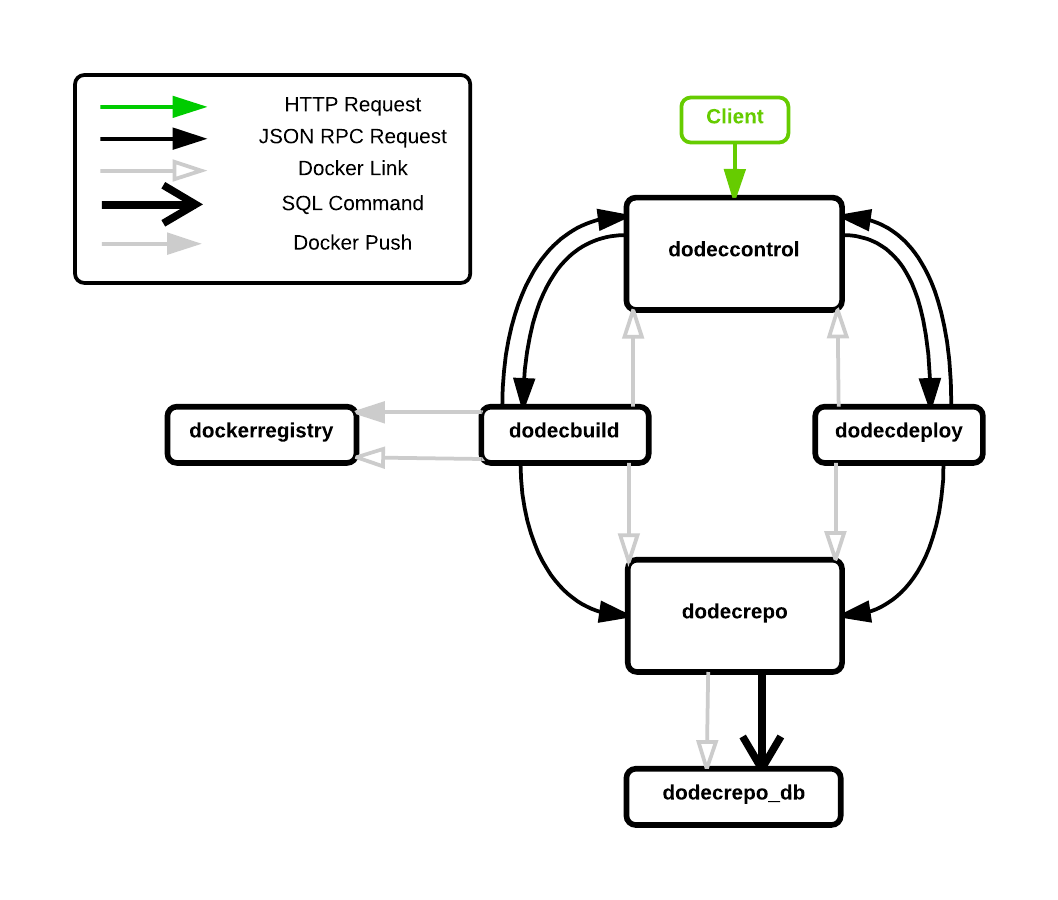
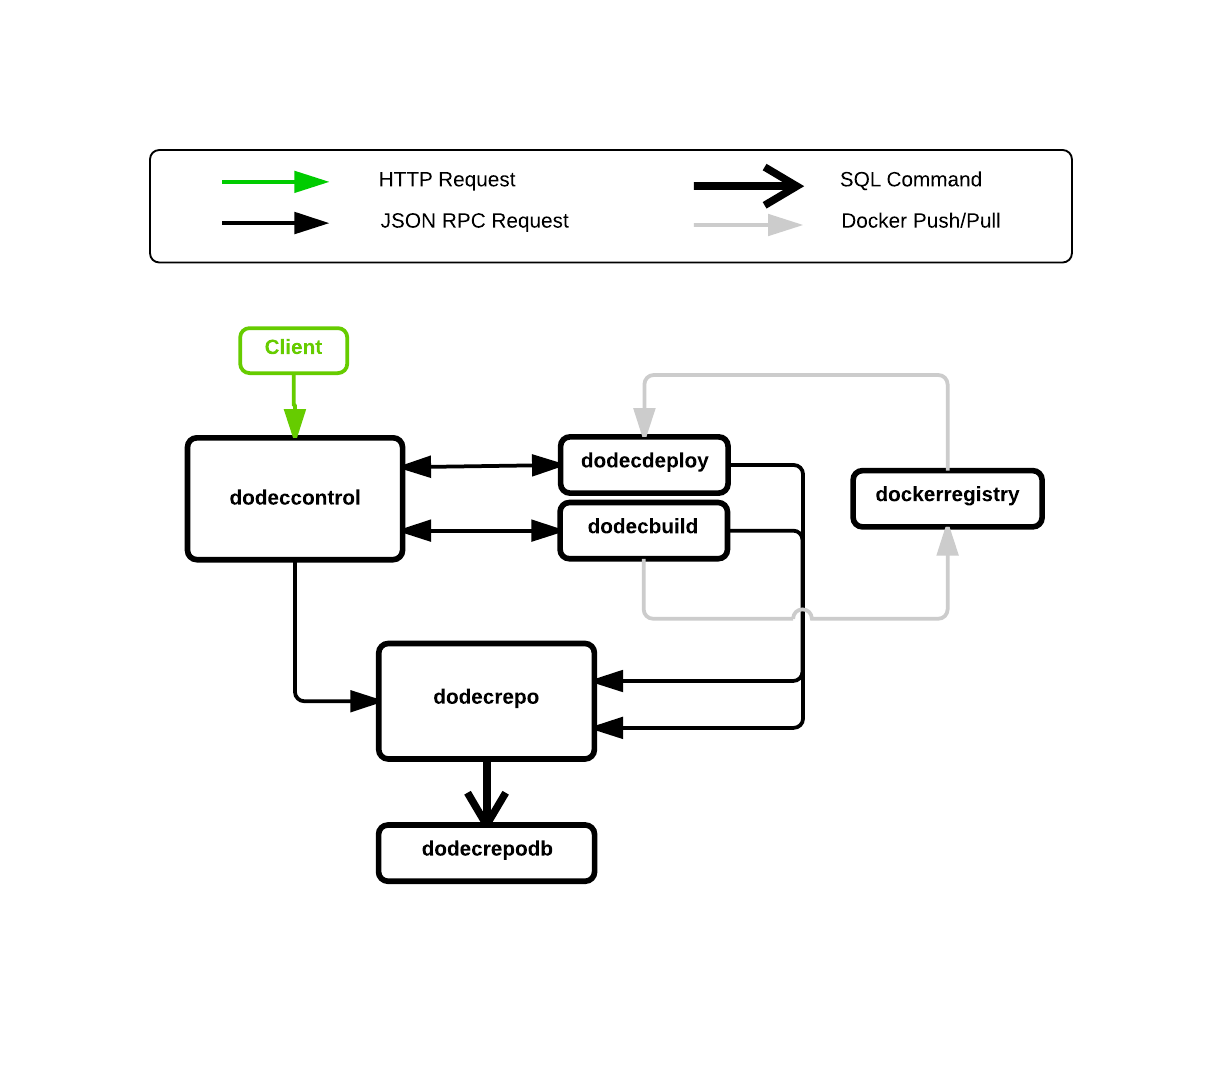
(WIP) use postgres

diff --git a/dodecrepo/main_test.go b/dodecrepo/main_test.go
@@ -1,9 +1,9 @@
 package main
 
 import (
-	"github.com/jtakamine/dodecahedronci/dodecregistry/api"
 	"github.com/jtakamine/dodecahedronci/testutil"
-	"log"
+	"net"
+	"net/rpc/jsonrpc"
 	"testing"
 	"time"
 )
@@ -17,7 +17,7 @@ func TestMain(t *testing.T) {
 	testutil.FigUp(t)
 	defer testutil.FigKillAndRm(t)
 
-	testPostAndGetBuild("myapp", "1.2.0.345", "app:\n  image: scratch", "", "http://localhost:8001", t)
+	testRPCSaveAndGetBuild("1234uuid567", "myapp", "1.0.0.0", "app:\n\timage: scratch", "localhost:8001", t)
 }
 
 func TestMainShort(t *testing.T) {
@@ -28,9 +28,44 @@ func TestMainShort(t *testing.T) {
 	go main()
 	time.Sleep(500 * time.Millisecond)
 
-	testPostAndGetBuild("myapp", "1.2.0.345", "app:\n  image: scratch", "asdf", "http://localhost:8001", t)
+	testRPCSaveAndGetBuild("1234uuid567", "myapp", "1.0.0.0", "app:\n\timage: scratch", "localhost:8001", t)
 }
 
+func testRPCSaveAndGetBuild(uuid string, app string, version string, artifact string, addr string, t *testing.T) {
+	conn, err := net.DialTimeout("tcp", addr, time.Second*5)
+	if err != nil {
+		t.Error(err)
+		return
+	}
+	c := jsonrpc.NewClient(conn)
+
+	var success bool
+	b_save := Build{
+		UUID:     uuid,
+		AppName:  app,
+		Version:  version,
+		Artifact: artifact,
+	}
+
+	err = c.Call("BuildRepo.Save", b_save, &success)
+	if err != nil {
+		t.Error(err)
+		return
+	}
+
+	var b_get Build
+	err = c.Call("BuildRepo.Get", uuid, &b_get)
+	if err != nil {
+		t.Error(err)
+		return
+	}
+
+	if b_get != b_save {
+		t.Errorf("Saved build did not equal retrieved build: %s <> %s\n", b_save, b_get)
+	}
+}
+
+/*
 func testPostAndGetBuild(app string, version string, artifact string, dockerRegistryUrl string, targetUrl string, t *testing.T) {
 	var err error
 
@@ -49,4 +84,4 @@ func testPostAndGetBuild(app string, version string, artifact string, dockerRegi
 		log.Printf("Failed: The retrieved build does not match the build that was posted.\n")
 		t.Fail()
 	}
-}
+}*/

diff --git a/dodecbuild/di.go b/dodecbuild/di.go
@@ -7,6 +7,7 @@ import (
 	"gopkg.in/yaml.v2"
 	"net"
 	"net/rpc/jsonrpc"
+	"os"
 	"os/exec"
 	"path/filepath"
 	"strings"
@@ -47,16 +48,38 @@ var buildDockerFile = func(dFile string, version string, writer *logutil.Writer)
 	return tag, nil
 }
 
-var saveBuild = func(appName string, version string, fFile figFile) (err error) {
-	data, err := yaml.Marshal(fFile.Config)
+var saveBuild = func(uuid string, appName string, version string, fFile figFile) (err error) {
+	fData, err := yaml.Marshal(fFile.Config)
 	if err != nil {
 		return err
 	}
-	artifactStr := string(data)
+	fYml := string(fData)
 
-	build := dodecregistry_API.Build{Artifact: artifactStr}
+	build := struct {
+		UUID     string
+		AppName  string
+		Version  string
+		Artifact string
+	}{
+		UUID:     uuid,
+		AppName:  appName,
+		Version:  version,
+		Artifact: fYml,
+	}
 
-	err = dodecregistry_API.PostBuild(appName, version, build, "http://dodecrepo:8000/")
+	addr := os.Getenv("DODEC_REPOADDR")
+	if addr == "" {
+		return errors.New("Missing environment variable: DODEC_REPOADDR")
+	}
+
+	conn, err := net.DialTimeout("tcp", addr, time.Second)
+	if err != nil {
+		return err
+	}
+	c := jsonrpc.NewClient(conn)
+
+	var success bool
+	err = c.Call("BuildRepo.Save", build, &success)
 	if err != nil {
 		return err
 	}

diff --git a/dodecrepo/rpc.go b/dodecrepo/rpc.go
@@ -1,10 +1,36 @@
 package main
 
 import (
-	"database/sql"
-	"encoding/json"
+	"net"
+	"net/rpc"
+	"net/rpc/jsonrpc"
+	"strconv"
+	// "encoding/json"
 	_ "github.com/lib/pq"
 )
+
+func rpcListen(port int) (err error) {
+	err = rpc.RegisterName("BuildRepo", &RPCBuildRepo{})
+	if err != nil {
+		return err
+	}
+
+	l, err := net.Listen("tcp", ":"+strconv.Itoa(port))
+	if err != nil {
+		return err
+	}
+
+	for {
+		conn, err := l.Accept()
+		if err != nil {
+			return err
+		}
+
+		go rpc.ServeCodec(jsonrpc.NewServerCodec(conn))
+	}
+
+	return nil
+}
 
 type RPCBuildRepo struct{}
 
@@ -14,25 +40,25 @@ func (rpcB *RPCBuildRepo) Save(b Build, success *bool) (err error) {
 		return err
 	}
 
-	db, err := sql.Open("postgres", c)
+	err = saveBuild(b, c)
 	if err != nil {
 		return err
 	}
-
-	sqlFmt := `
-INSERT INTO task(task_type_id, uuid, artifact)
-	SELECT TOP 1 tt.id, '%s', '%s'
-	FROM task_type tt
-	WHERE tt.code = 'build'
-`
-	err := db.Exec("INSERT INTO task()")
 
 	*success = true
 	return nil
 }
 
 func (rpcB *RPCBuildRepo) Get(uuid string, b *Build) (err error) {
-	*build, err = getBuild(uuid)
+	c, err := getConnStr()
+	if err != nil {
+		return err
+	}
+
+	*b, err = getBuild(uuid, c)
+	if err != nil {
+		return err
+	}
 
 	return nil
 }

diff --git a/dodecrepo/main.go b/dodecrepo/main.go
@@ -9,6 +9,11 @@ func main() {
 	port := parseArgs()
 	log.Printf("Listening on port %v\n", port)
 
+	err := rpcListen(port)
+	if err != nil {
+		panic("Error listening on TCP port: " + err.Error())
+	}
+
 	/*	err := ListenAndServe(":" + strconv.Itoa(port))
 		if err != nil {
 			log.Println("An error occurred while instantiating the service:\n", err)

diff --git a/dodecbuild/rpc.go b/dodecbuild/rpc.go
@@ -33,7 +33,7 @@ func (b *RPCBuilder) Execute(args ExecuteBuildArgs, uuid *string) (err error) {
 }
 
 func rpcListen(port int) (err error) {
-	err = rpc.RegisterName("Build", &RPCBuild{})
+	err = rpc.RegisterName("Build", &RPCBuilder{})
 	if err != nil {
 		return err
 	}

diff --git a/dodecbuild/main.go b/dodecbuild/main.go
@@ -21,7 +21,7 @@ func main() {
 }
 
 var parseArgs = func() (port int) {
-	port = flag.IntVar(&port, "port", 80, "The port on which this service will listen")
+	flag.IntVar(&port, "port", 80, "The port on which this service will listen")
 	flag.Parse()
 	return port
 }

diff --git a/dodecrepo/di.go b/dodecrepo/di.go
@@ -13,7 +13,7 @@ var getConnStr = func() (connStr string, err error) {
 
 	userEnv := "PGUSER"
 	passEnv := "PGPASSWORD"
-	dbAddrEnv := "DODEC_POSTGRESADDR"
+	dbAddrEnv := "DODEC_REPODBADDR"
 
 	user := os.Getenv(userEnv)
 	if user == "" {

diff --git a/dodeccontrol/di.go b/dodeccontrol/di.go
@@ -14,7 +14,7 @@ var rpcExecuteBuild = func(repoUrl string, appName string) (err error) {
 	}
 	c := jsonrpc.NewClient(conn)
 
-	args := &struct {
+	args := struct {
 		RepoUrl string
 		AppName string
 	}{
